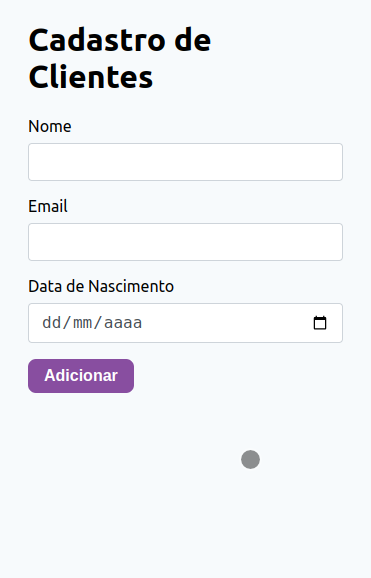
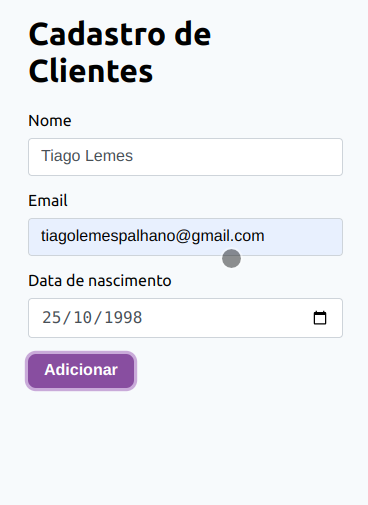
63. Esquema de validação com Yup

diff --git a/src/components/AdicionaCliente.jsx b/src/components/AdicionaCliente.jsx
@@ -1,6 +1,7 @@
-import React from 'react';
+import React from 'react'
 import { Formik } from 'formik'
 import Campo from './Campo'
+import * as yup from 'yup'
 
 const validarEmail = (email) => {
   const regex = /^\w+([\.-]?\w+)*@\w+([\.-]?\w+)*(\.\w{2,3})+$/;
@@ -8,6 +9,23 @@ const validarEmail = (email) => {
 };
 
 const AdicionaCliente = () => {
+
+  const esquema = yup.object({
+    nome: 
+      yup.string()
+      .required('O campo nome é obrigatório')
+      .min(5, 'O nome de ter no mínimo 5 caracteres')
+      .max(30, 'O nome de ter no máximo 30 caracteres'),
+    email:
+      yup.string()
+      .email('O campo email deve ser um email válido')
+      .required('O campo email é obrigatório'),
+    nascimento:
+      yup.date()
+      .required('A data de nascimento é obrigatória')  
+      .max(new Date(), 'Você não pode ter nascido no futuro')  
+  })
+
   return (
     <>
       <h1>Cadastro de Clientes</h1>
@@ -17,23 +35,8 @@ const AdicionaCliente = () => {
           nome:'Tiago Lemes', 
           email: 'tiagolemespalhano@gmail.com', 
           nascimento: '1984-10-25' } }
-        validate={(values) => {
-          const errors = {}
-          if(!values.nome) {
-            errors.nome = 'O campo nome é obrigatório'
-          }
-          if(!values.email) {
-            errors.email = 'O campo email é obrigatório'
-          }
-          else if(!validarEmail(values.email)) {
-            errors.email = 'O campo email é inválido'
-          }
-          if(!values.nascimento) {
-            errors.nascimento = 'O campo nascimento é obrigatório'
-          }
-          return errors
-        }}
-        onSubmit={ (values) => {alert(JSON.stringify(values)) } }
+        validationSchema={esquema}
+        onSubmit={ () => {alert('Dados enviados com suesso') } }
       >
 
         {(props) => (
